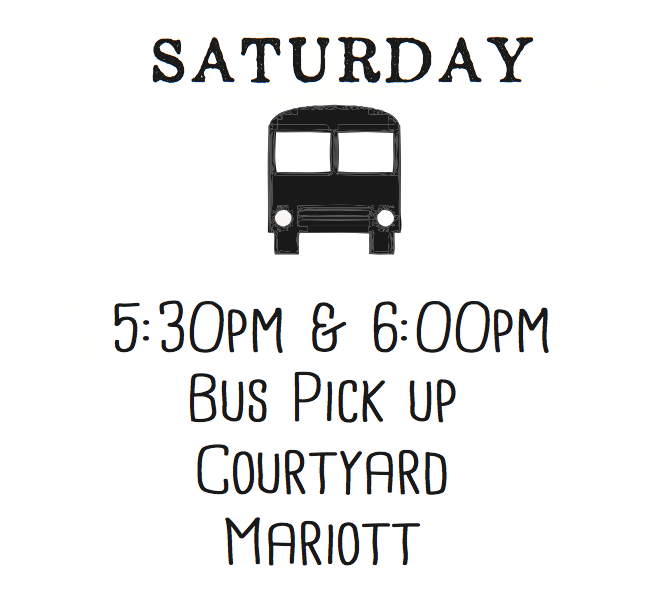
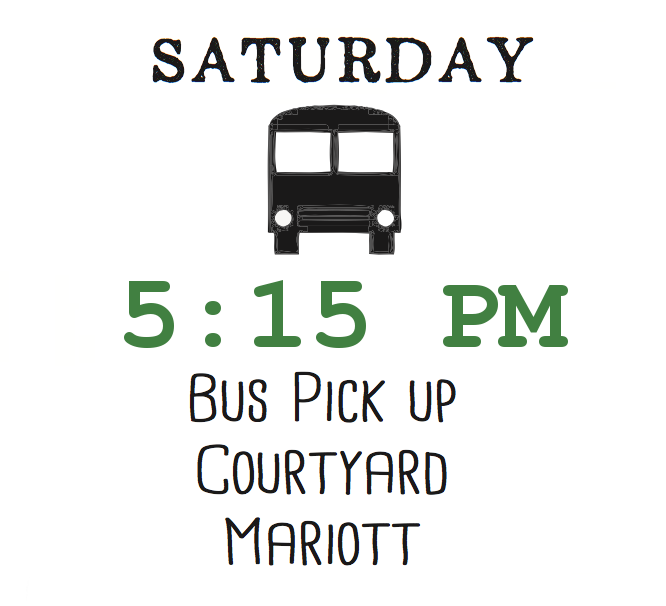
shuttle updates

Changed region(s): [[0.1502, 0.4455, 0.8709, 0.5941]]

diff --git a/index.html b/index.html
@@ -171,9 +171,11 @@
 										<img class="album-photo timeline-image" src="images/wedding-timeline-01.png"/>
 									</td>
 					    			<td class="td-right">
-										Shuttle Buses from Courtyard Marriott Hotel to Venue
-										<br/>
-										<img class="jk-under-construction" src="images/under-construction.gif"/> Check back later for details. <img class="jk-under-construction" src="images/under-construction.gif"/>
+										We have three shuttle buses from Courtyard Marriott Hotel to Terian Farms.
+										<br/><br/>
+					    				<b>Please be ready to board by <u>5:15 PM</u>.</b>  You <i>might</i> be able to catch one as late as 6, but if you miss it you'll have to Uber.
+										<br/><br/>
+										The shuttle buses will also take you back to the hotel after the wedding, and will make a couple back-and-forth trips throughout the night.
 									</td>
 								</tr>
 					    		<tr>
@@ -182,8 +184,6 @@
 									</td>
 					    			<td class="td-right">
 										Ceremony at Terian Farms
-										<br/>
-										(note: the shuttles will get you here right on time!)
 									</td>
 								</tr>
 					    		<tr>
@@ -223,7 +223,7 @@
 										<img class="album-photo timeline-image" src="images/wedding-timeline-07.png"/>
 									</td>
 					    			<td class="td-right">
-										Shuttle Buses from Terian Farms back to Courtyard Marriott Hotel
+										Shuttle buses will take us from Terian Farms back to Courtyard Marriott Hotel.
 									</td>
 								</tr>
 					    		<tr>
@@ -276,7 +276,7 @@
 						    	<br/>
 						    	<b>11:30ish PM</b>
 						    	<br/>
-						    	<b>Party's not over yet!  The shuttle-bus will take Kim & Jim back to the hotel to change after the wedding, then we'll meet at Jonathan's Grille, a brief walk east from the hotel.</b>
+						    	<b>Party's not over yet!  The shuttle-bus will take Kim & Jim back to the hotel to change after the wedding, then we'll meet at Jonathan's Grille, a brief walk east from the hotel.  We'll also be holding onto one of the shuttle buses to take us back to the hotel at 1:30 AM.</b>
 						    	<br/>
 						    	<a class="jk-content-link" href="https://goo.gl/maps/2AzQ9uqK9sz" target="_blank">Google Maps</a>
 						    	<br/>
